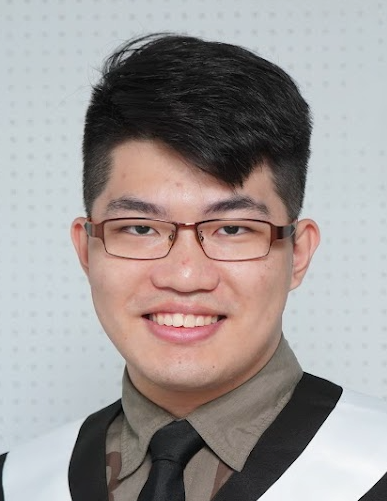
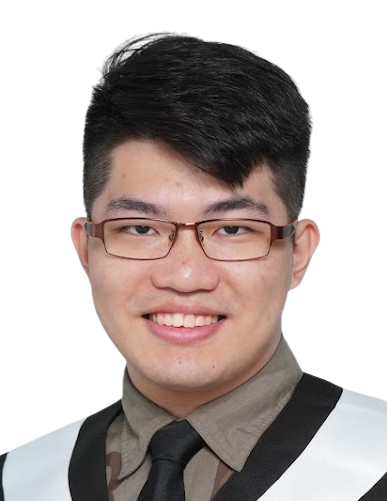
update: PDF link and image

diff --git a/index.html b/index.html
@@ -157,8 +157,9 @@
         </div>
         <div id="objective">
             <p>
-                開放資料、開放教育、群眾智慧<br>
+                關鍵字：開放資料、開放教育、群眾智慧<br>
                 部落格： <a href="https://skyhong.tw" target="_blank">skyhong.tw</a><br>
+                <a href="https://cv.skyhong.tw" target="_blank">CV</a> | <a href="https://cv.skyhong.tw/assets/cv.pdf" target="_blank">PDF</a><br>
             </p>
         </div>
         <div class="clear"></div>
